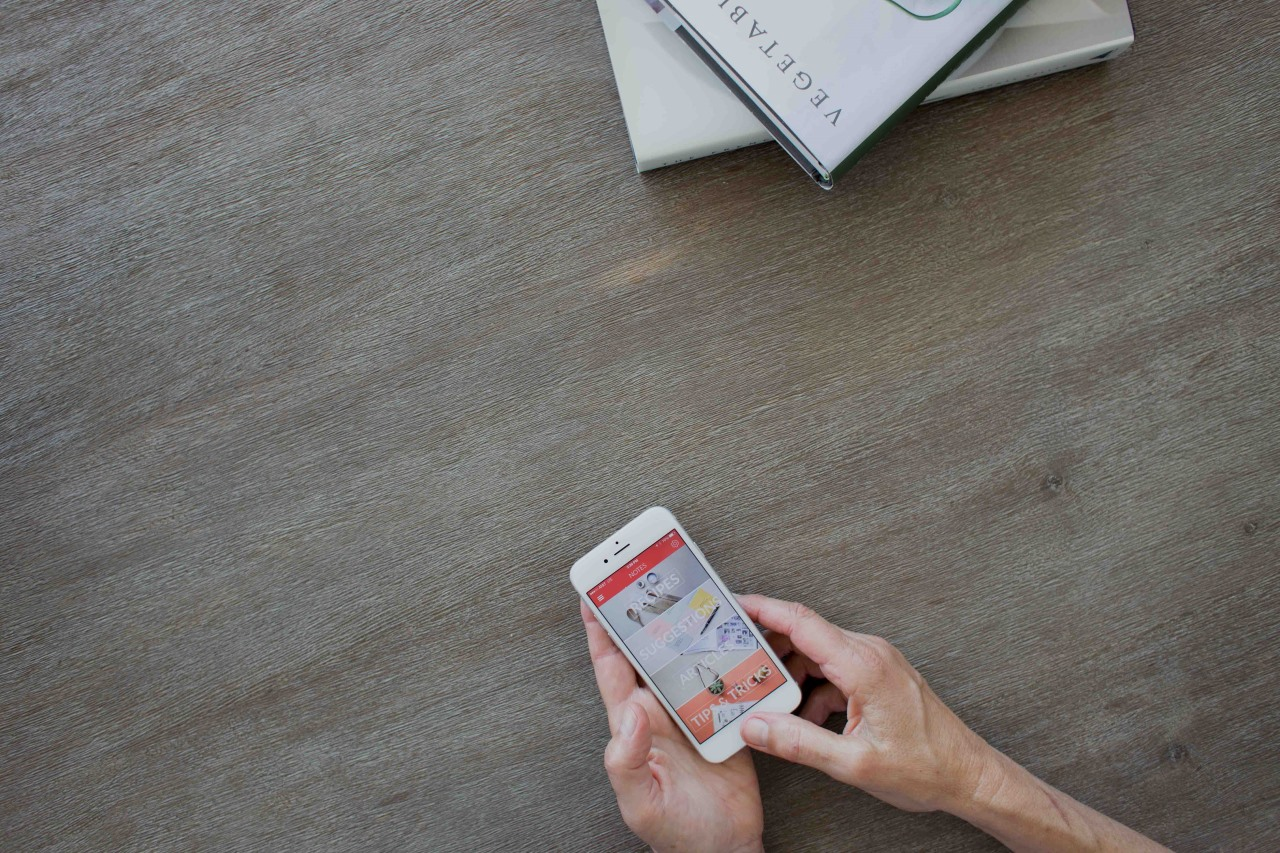
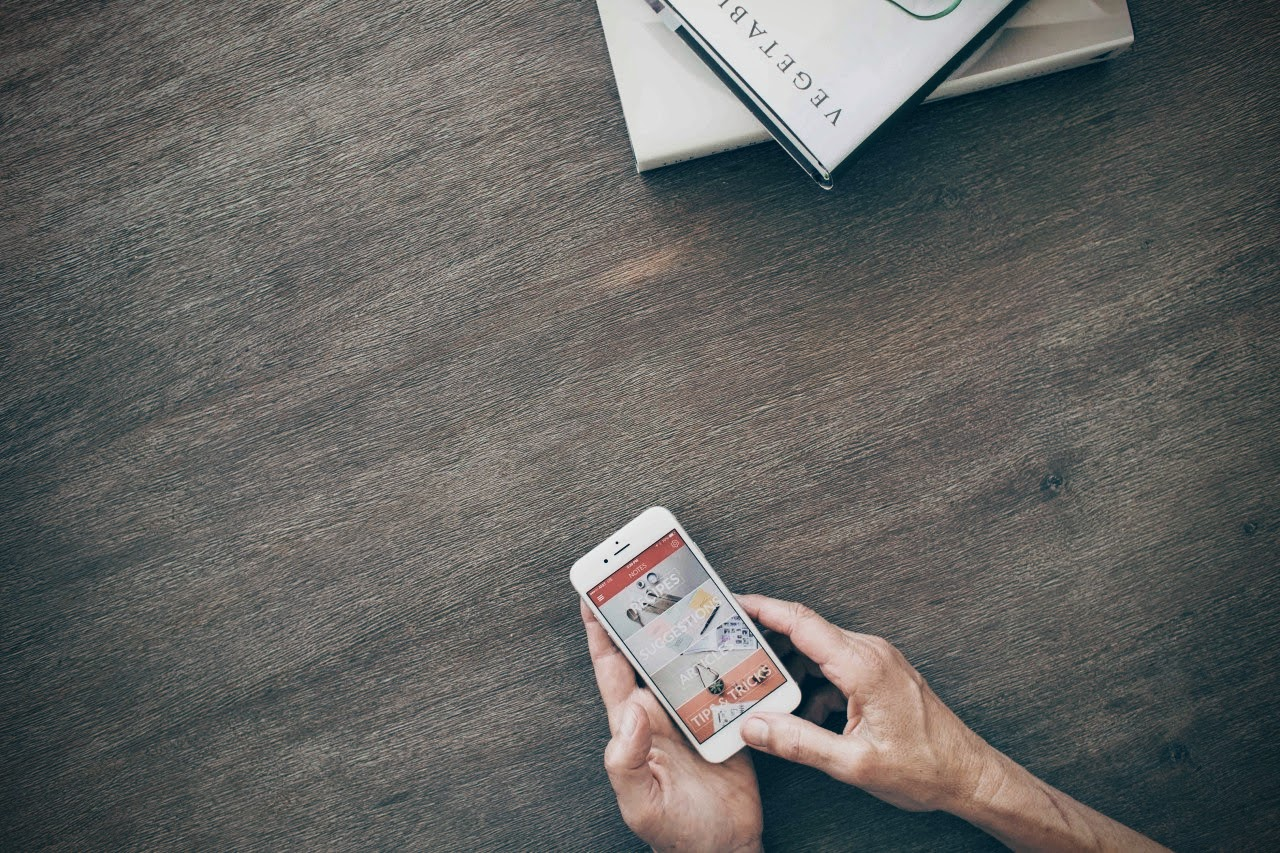
suppression du box-shadow

diff --git a/app/resources/css/main.css b/app/resources/css/main.css
@@ -72,8 +72,6 @@ p {
   width: 100%;
   height: 100%; /* For at least Firefox */
   min-height: 100%;
-  -webkit-box-shadow: inset 0 0 100px rgba(0,0,0,.5);
-          box-shadow: inset 0 0 100px rgba(0,0,0,.5);
 }
 .site-wrapper-inner {
   display: table-cell;
